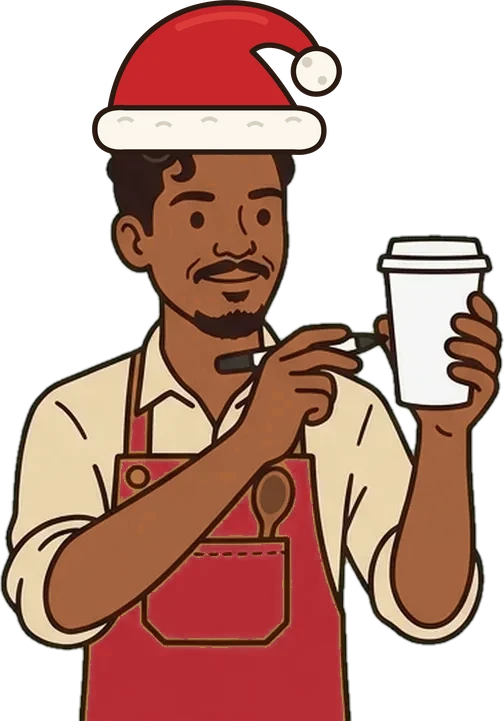
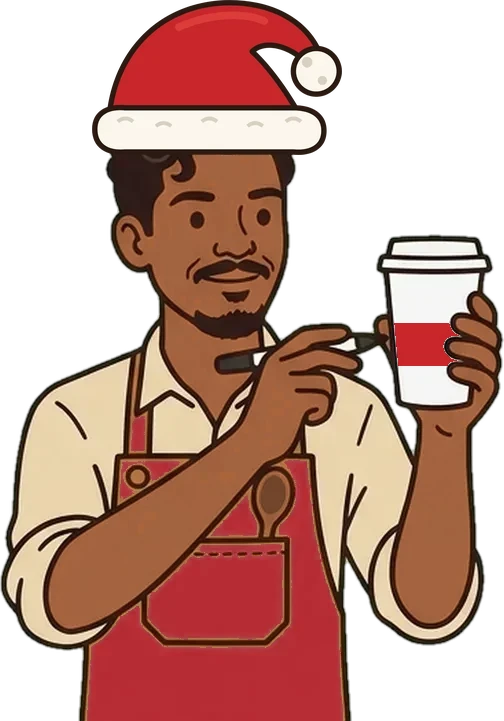
Christmas cups: cream name tag on the red sleeve so the corrected name is readable; cups in his hands now match the red-sleeved cup he serves
Claude-Session: https://claude.ai/code/session_01M7PDTuVyJJ1kuWZYfUFzFc

Changed region(s): [[0.7738, 0.4272, 0.9226, 0.5187]]

diff --git a/js/art.js b/js/art.js
@@ -124,7 +124,8 @@ window.ART = (function () {
       <path d="M36.4,96 L83.6,96 L83,102 L37,102 Z" fill="${XM ? "#2E6B4E" : o.accent || C.bottle}"/>
       ${XM ? `<path d="M35.3,62 L84.7,62 L82.6,89 L37.4,89 Z" fill="#C8262B" ${ol(2.2)}/>
         <path d="M35.6,66 L84.4,66 M37.1,85 L82.9,85" stroke="#FBF6EC" stroke-width="1.6" stroke-dasharray="3 3"/>
-        ${holly(60, 76, .62)}${xstar(44, 75, 3.2)}${xstar(76, 75, 3.2)}` : `<path d="M35.3,62 L84.7,62 L82.6,89 L37.4,89 Z" fill="#CFA06C" ${ol(2.2)}/>
+        <rect x="43" y="68.5" width="34" height="16" rx="3" fill="#FBF6EC" stroke="${INK}" stroke-width="1.4"/>
+        ${holly(81.5, 70, .42, 20)}${xstar(39.5, 76, 2.6)}` : `<path d="M35.3,62 L84.7,62 L82.6,89 L37.4,89 Z" fill="#CFA06C" ${ol(2.2)}/>
       ${[43, 51, 59, 67, 75].map(x => `<path d="M${x},65 l0,21" stroke="#A97D4E" stroke-width="1.2"/>`).join("")}`}
       <rect x="29" y="26" width="62" height="10" rx="4" fill="#F2EEE6" ${ol()}/>
       <path d="M35,26 Q37,15 60,14 Q83,15 85,26 Z" fill="#FFFDF7" ${ol()}/>
@@ -140,7 +141,7 @@ window.ART = (function () {
     const t1 = wrong.length * 90;
     return line(wrong, 54, 0)
       + `<path class="strike" style="animation-delay:${t1 + 200}ms" d="M39,49 Q60,46 81,50" stroke="#2A2522" stroke-width="2" fill="none" pathLength="44"/>`
-      + line(name, 81, t1 + 700);
+      + (XM ? line(name, 81, t1 + 700).replace('font-size="15"', 'font-size="13"') : line(name, 81, t1 + 700));
   }
 
   /* ---------- island bits: palms, sea, shells ---------- */
